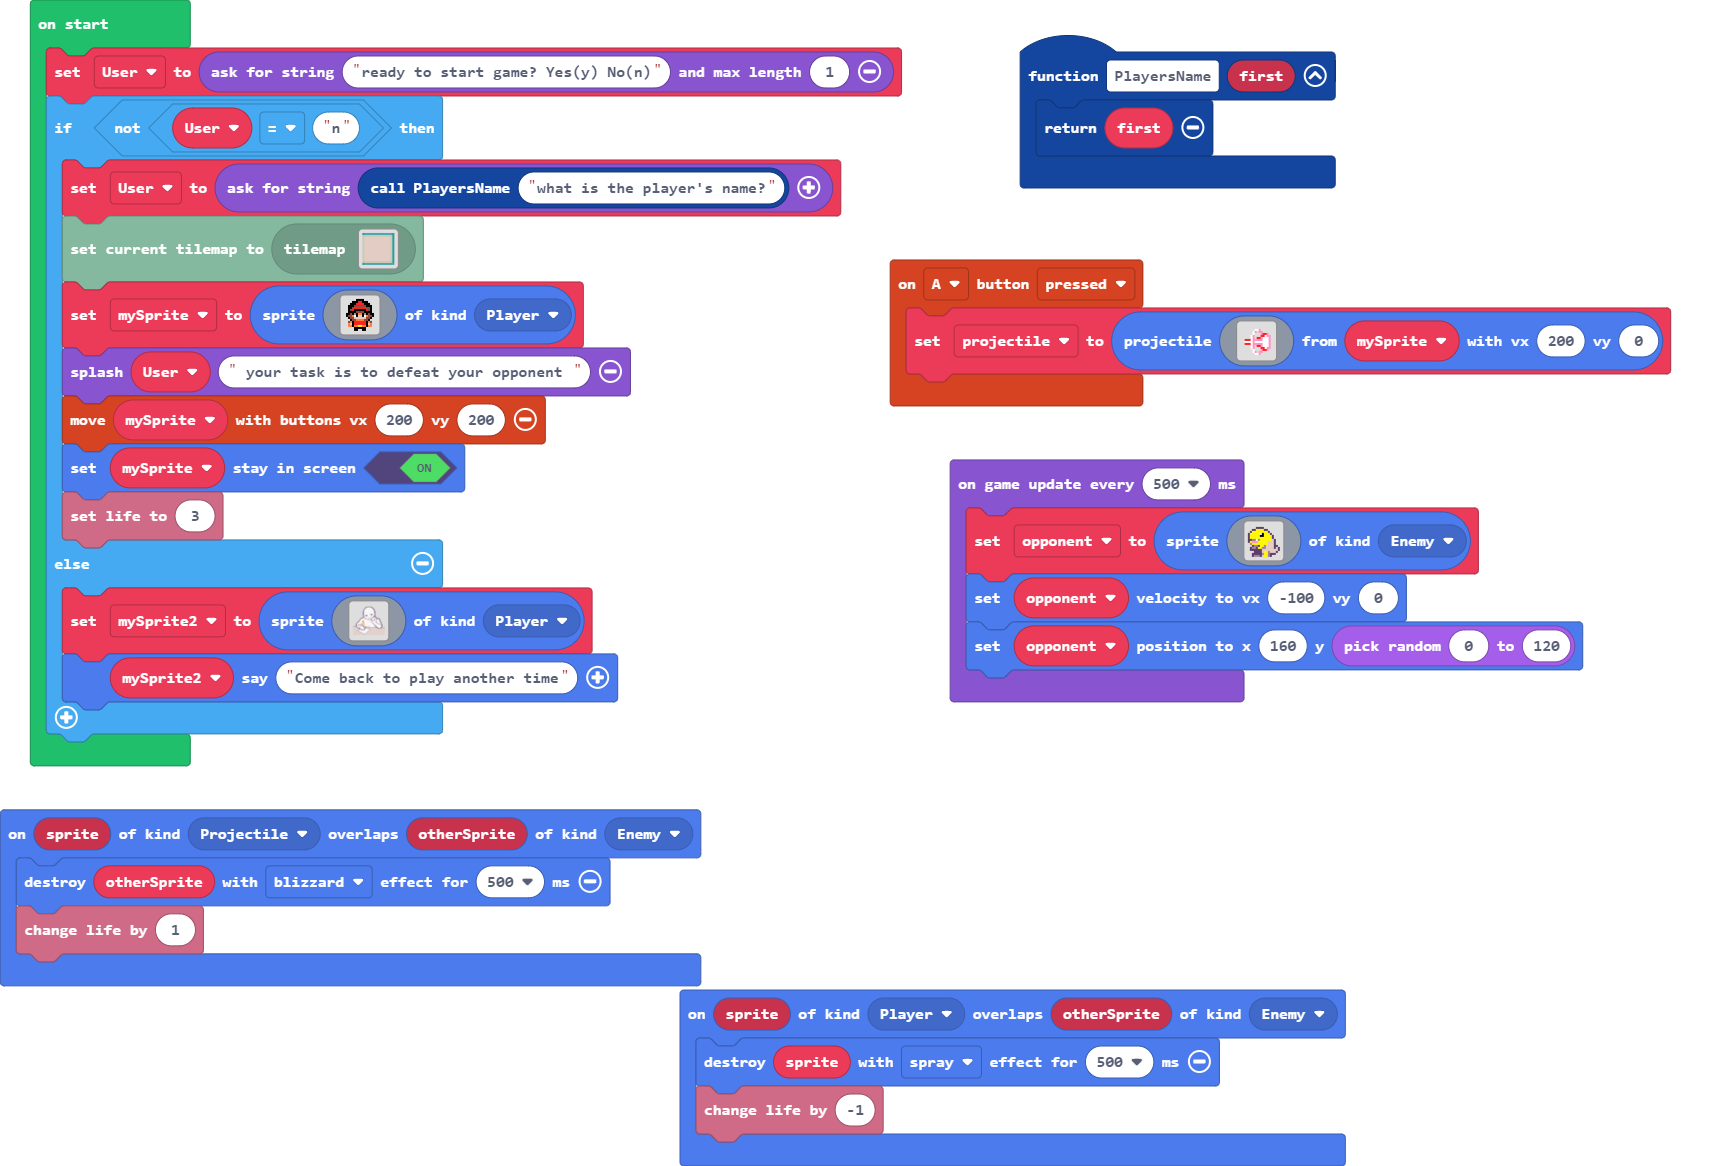
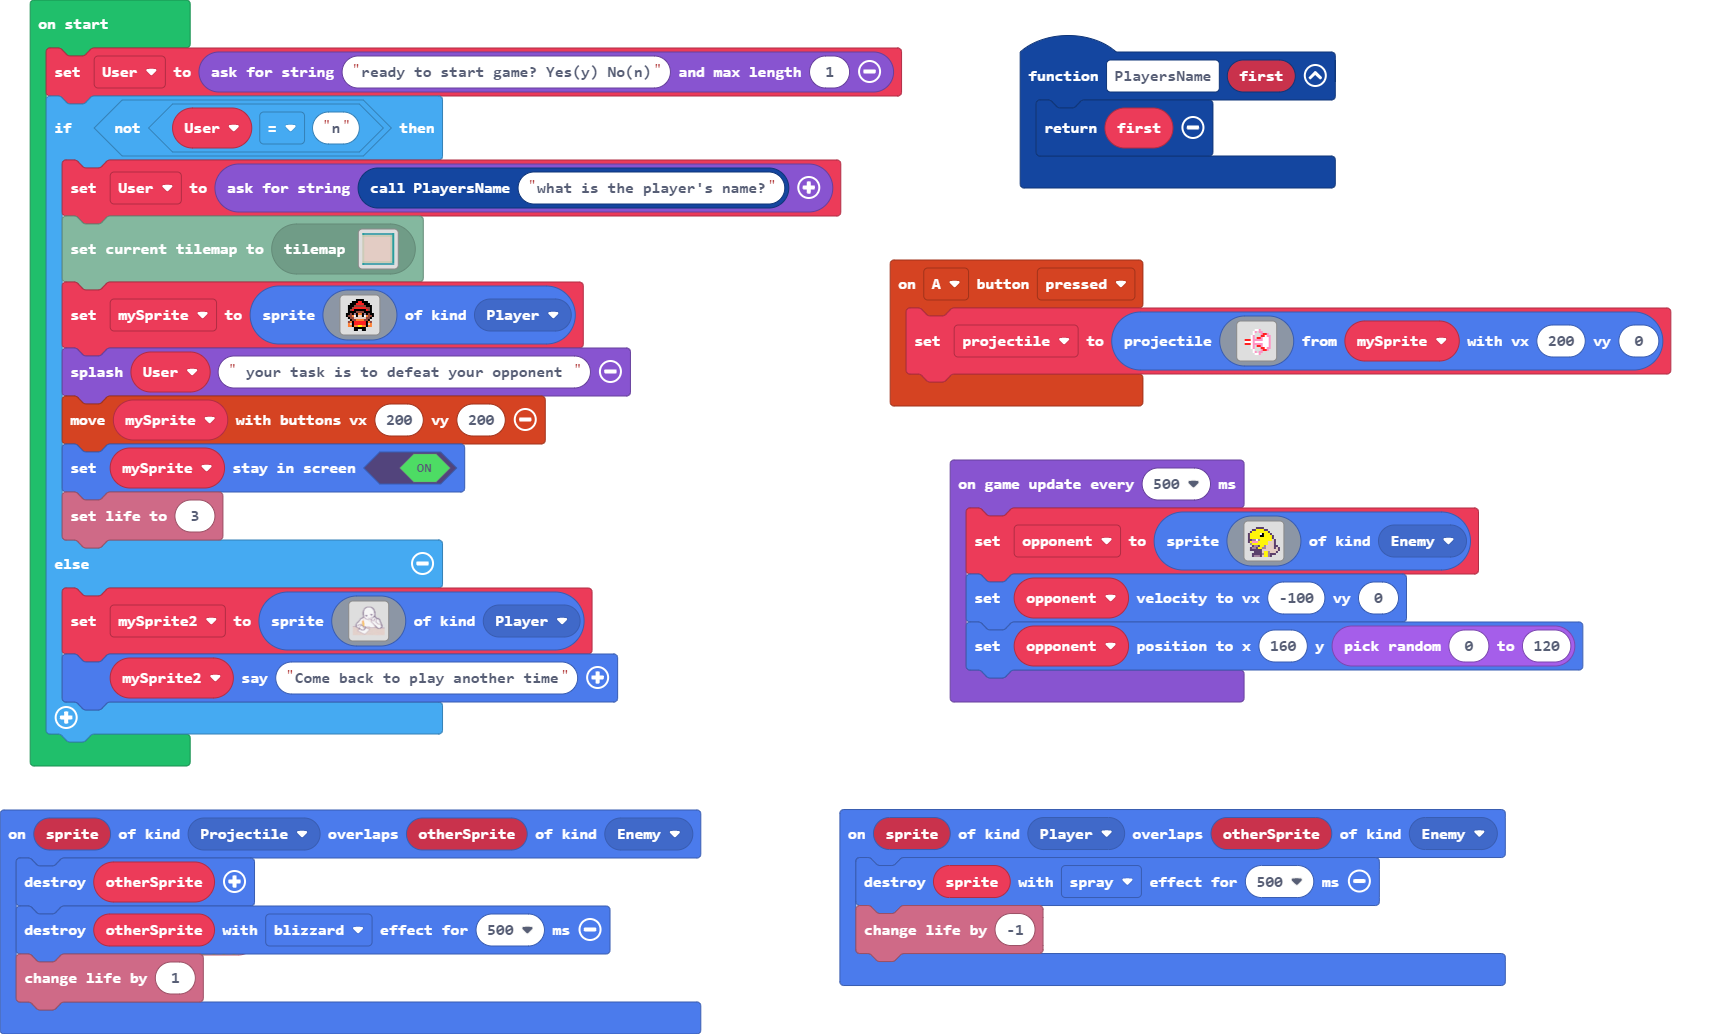
Update main.blocks, main.ts

diff --git a/main.ts b/main.ts
@@ -22,6 +22,7 @@ controller.A.onEvent(ControllerButtonEvent.Pressed, function () {
         `, mySprite, 200, 0)
 })
 sprites.onOverlap(SpriteKind.Projectile, SpriteKind.Enemy, function (sprite, otherSprite) {
+    otherSprite.destroy()
     otherSprite.destroy(effects.blizzard, 500)
     info.changeLifeBy(1)
 })
